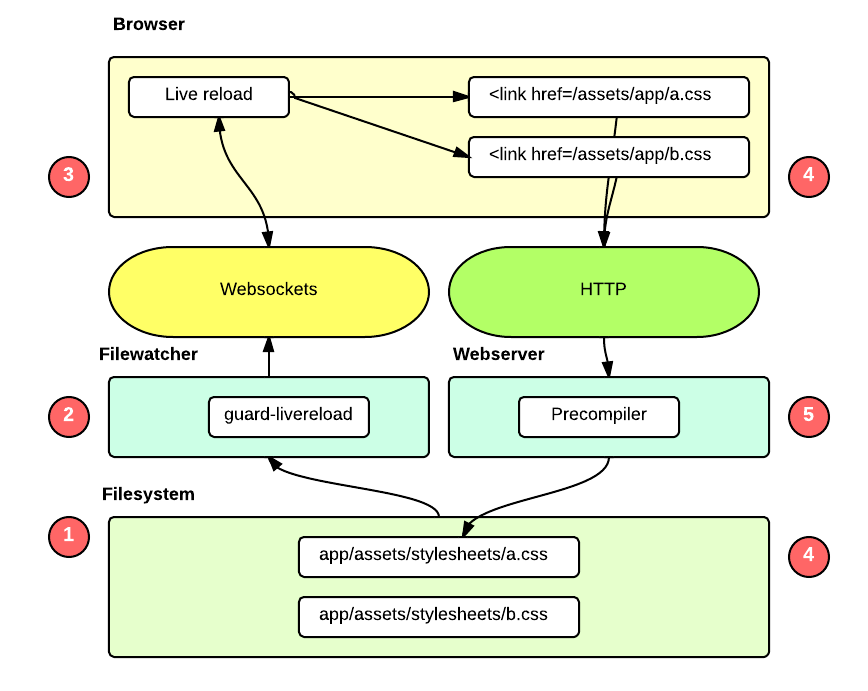
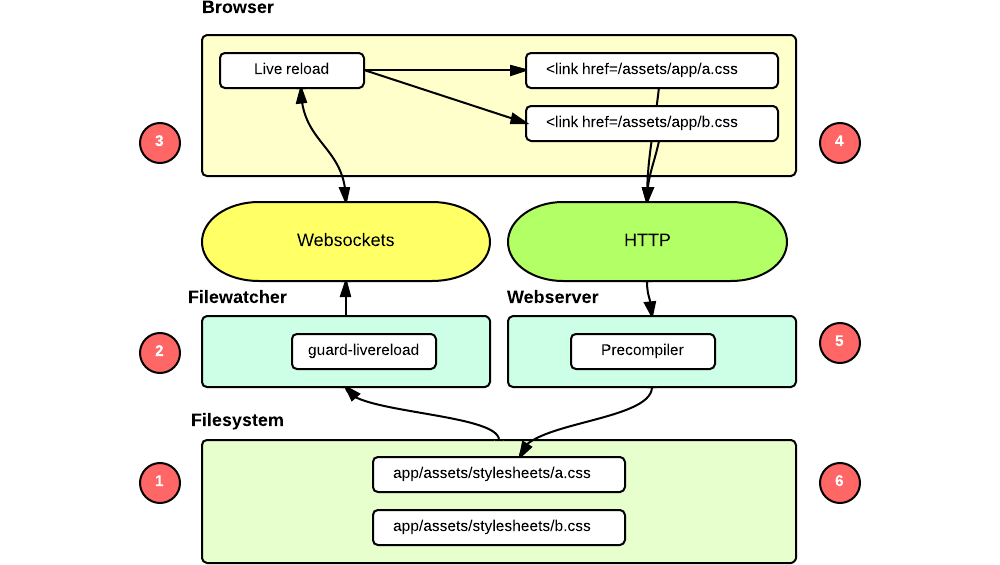
Optimized images.

diff --git a/source/_assets/javascripts/comments.js b/source/_assets/javascripts/comments.js
@@ -1,0 +1,22 @@
+$(function() {
+  var isLoaded = false;
+  var elmComments = $("section.comments");
+  var elmWindow = $(window);
+
+  function loadDisqusScript() {
+    var dsq = document.createElement('script'); dsq.type = 'text/javascript'; dsq.async = true;
+    dsq.src = 'https://' + disqus_shortname + '.disqus.com/embed.js';
+    (document.getElementsByTagName('head')[0] || document.getElementsByTagName('body')[0]).appendChild(dsq);
+  }
+
+  function onWindowScroll() {
+    if ( !isLoaded && (elmWindow.scrollTop() + $(window).height() > elmComments.offset().top)) {
+      isLoaded = true;
+      loadDisqusScript();
+    }
+  }
+
+  $(window).scroll(_.debounce(onWindowScroll, 10));
+
+
+});

diff --git a/source/_assets/stylesheets/partials/_index.scss b/source/_assets/stylesheets/partials/_index.scss
@@ -1,0 +1,35 @@
+.blog-index {
+
+  a[rel=full-article] {
+    background: darken($main-bg, 5);
+    display: inline-block;
+    padding: .4em .8em;
+    margin-right: .5em;
+    text-decoration: none;
+    color: mix($text-color, $text-color-light);
+    @extend .serif;
+    @include transition(background-color .5s);
+
+    &:hover {
+      text-shadow: none;
+      color: $main-bg;
+    }
+  }
+
+  article {
+    padding: 0;
+
+    > header {
+      background: none;
+      padding-bottom: 0;
+    }
+
+    > footer {
+      background: none;
+      border: none;
+      max-width: $max-width;
+      margin-left: auto;
+      margin-right: auto;
+    }
+  }
+}

diff --git a/source/_assets/stylesheets/partials/_comments.scss b/source/_assets/stylesheets/partials/_comments.scss
@@ -1,0 +1,9 @@
+.comments {
+  max-width: $max-width;
+  width: 95%;
+
+  margin-left: auto;
+  margin-right: auto;
+  padding: 30px 0;
+}
+
